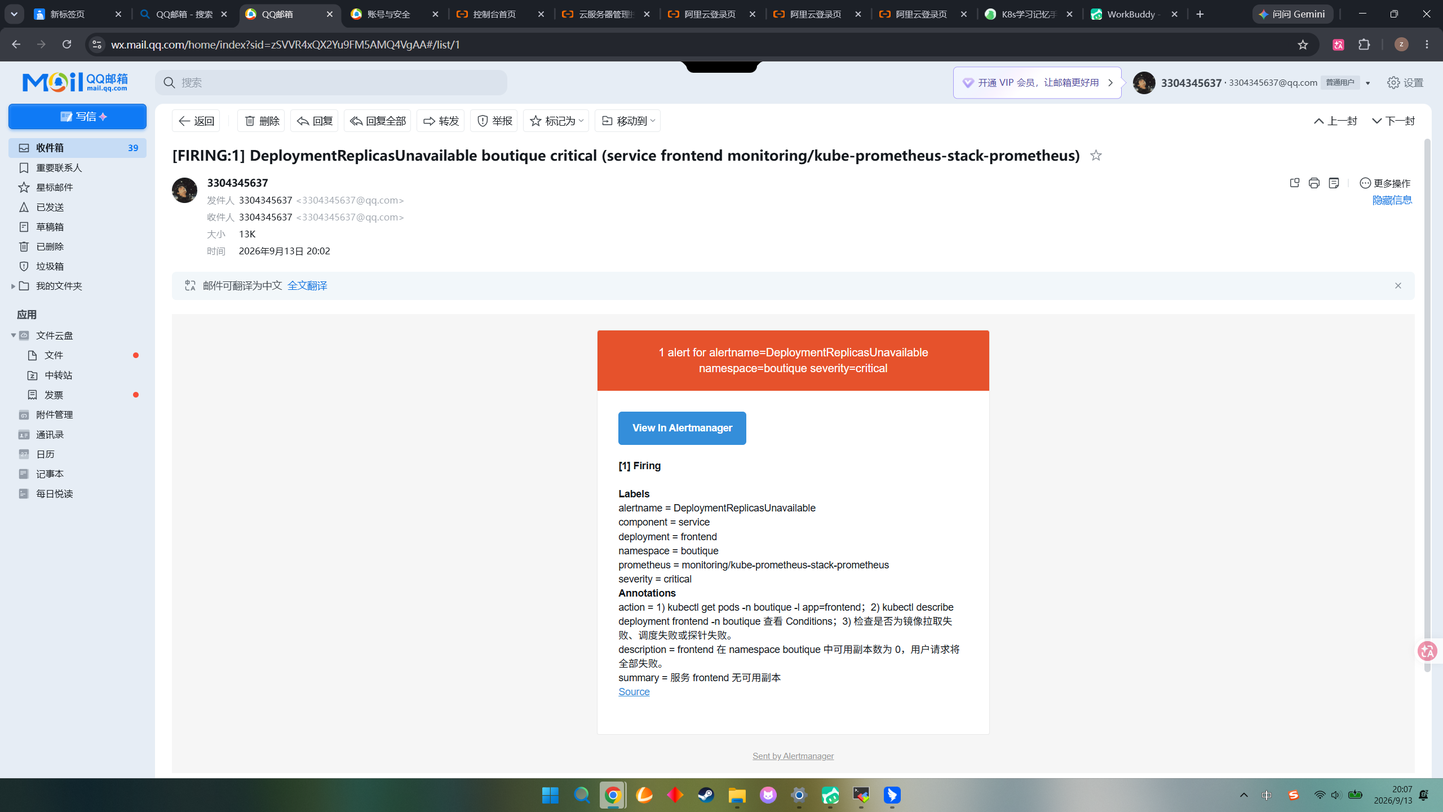
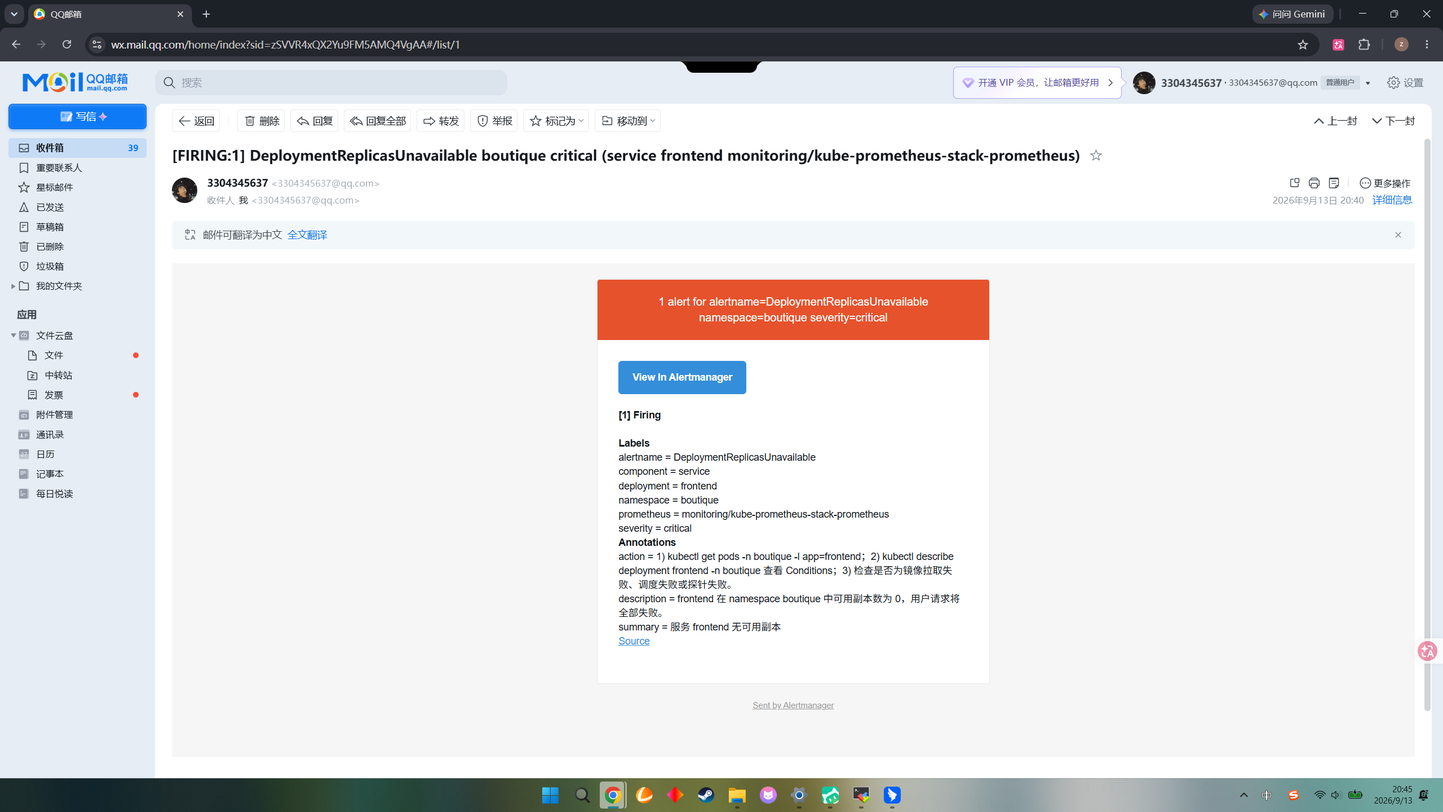
fix: 投递时刻取证改用计数器采样（日志方案真机失灵）+ 更正一处错误结论 + 归档新截图
真实反馈驱动的两处修正：

1) 投递时刻取证：原设计读 Alertmanager 日志 `msg="Notify success"`，真机零命中。
   读上游源码确认根因（notify/retry_stage.go）：
     if i <= 1 { l.Debug("Notify success", ...) } else { l.Info("Notify success") }
   健康投递走 Debug 分支，默认 logLevel=info 下根本不打印。
   改为：演练期间每 2s 直连 Alertmanager /metrics 采样 alertmanager_notifications_total，
   记录各通道首次自增时刻。精度 ±2s，与日志级别无关，采样落 alert-drill.log.samples。
   --report 改为只读复用采样文件（不再依赖 Alertmanager 日志留存）。
   新增 SAMPLE_INTERVAL/SAMPLE_PID；收尾回收采样进程。
   边界处理：采样文件缺失时提示重跑；用「故障/恢复」两个 epoch 下限区分两次投递。

2) 更正一个写进文档的错误结论：此前写「钉钉会把间隔 <5 分钟的消息合并进同一时间分隔」
   ——不成立。新截图（钉钉桌面客户端完整视图）里 FIRING 20:40 与 RESOLVED 20:43 各有
   独立时间标签；之前那张窄视图显示的是消息组的时间标签，被误读。
   正确结论不变：收件人界面只到分钟，不能当秒级证据。
   已同步修正 alerting.md / HANDOFF / screenshots README / 技能 / 长期记忆。

第三次演练（20:39:19，采样版脚本）：
  Pending +13s → Firing +73s → Alertmanager +73s → 恢复 +193s → Resolved +224s
  通道计数 email 19→21、webhook 2→4 —— 两通道各 +2（取数竞态修复生效）
  收件人侧：邮件 20:40、钉钉 20:40、恢复通知 20:43，两条链路两条都到

截图与文档：
- 14/15/16 换为 20:40 / 20:43 那一版（从用户图片目录复制，未移动）
- docs/screenshots/README.md 新增「怎么截 13」分步操作：SSH 隧道两条命令 +
  必须同框的三要素（地址栏 / State=Firing / Active Since）+ 截完立刻恢复副本
- alerting.md §4 时间线按第三次演练回填；标「≈」处注明是推算值
- HANDOFF 任务 7 改为三次演练对比表，并写明取证机制改过一次

桩测试：完整演练（区分两次投递）、--report 复用、采样缺失提示、进程回收，
全部通过；两份 CRD 校验通过、11 个 YAML 解析通过、9 个脚本语法与行尾符通过。

diff --git a/docs/alerting.md b/docs/alerting.md
@@ -405,24 +405,22 @@ Alertmanager 收到 / 恢复 各时刻 → 打印各通道发送计数增量 →
 
 ## 4. 时间线记录表（演练后回填）
 
-**演练执行时间：** 2026-09-13 20:00:53（Asia/Shanghai，cp 节点时区）
+**演练执行时间：** 2026-09-13 20:39:19（Asia/Shanghai，cp 节点时区）
+**脚本版本：** 采样版 `alert-drill.sh`（投递时刻用计数器采样，见 §4.0）
 
 | 时刻 | 事件 | 距故障 | 证据 |
 |---|---|---|---|
-| T+0s（20:00:53） | `kubectl scale deploy/frontend --replicas=0` | — | `alert-drill.log` |
-| T+9s（20:01:02） | 告警状态变为 Pending | **+9s** | `alert-drill.log` |
-| T+70s（20:02:03） | 告警状态变为 **Firing** | **+70s** | `alert-drill.log` |
-| T+70s（20:02:03） | Alertmanager 收到告警 | **+70s** | `alert-drill.log` |
-| T+75s | **邮件投递** | **≈+75s**（待 4.0 精确化） | 邮箱显示 20:02，仅到分钟 |
-| T+75s | **钉钉投递** | **≈+75s**（待 4.0 精确化） | 钉钉时间分隔 20:02 |
-| T+220s（20:04:33） | 执行恢复（`--replicas=2`） | +220s | `alert-drill.log` |
-| T+250s（20:05:03） | 告警 Resolved | **+250s**（距恢复 30s） | `alert-drill.log` |
-| T+253s | 收到恢复通知（邮件 + 钉钉各一条） | ≈+253s | 邮箱显示 20:05 |
+| T+0s（20:39:19） | `kubectl scale deploy/frontend --replicas=0` | — | `alert-drill.log` |
+| T+13s（20:39:32） | 告警状态变为 Pending | **+13s** | `alert-drill.log` |
+| T+73s（20:40:32） | 告警状态变为 **Firing** | **+73s** | `alert-drill.log` |
+| T+73s（20:40:32） | Alertmanager 收到告警 | **+73s** | `alert-drill.log` |
+| ≈T+78s（20:40:36） | **邮件 / 钉钉投递** | **≈+78s** | 截图 14 / 15（只到分钟） |
+| T+193s（20:42:32） | 执行恢复（`--replicas=2`） | +193s | `alert-drill.log` |
+| T+224s（20:43:03） | 告警 Resolved | **+224s**（距恢复 31s） | `alert-drill.log` |
+| ≈T+230s（20:43:08） | 恢复通知（邮件 + 钉钉各一条） | ≈+230s | 截图 16（20:43） |
 
-> ⚠ 标「≈」的两组是**理论值 + 分钟级界面时间**推出来的
-> （Firing 20:02:03 + critical 路由 `groupWait: 5s`），
-> **不是实测秒数**。跑一次 4.0 的 `--report` 就能换成实测值；
-> 拿到实测值之前，这一格不要写成确数。
+> ⚠ 标「≈」的两组是**收件人界面的分钟级时间 + `groupWait: 5s` 推算**出来的，
+> **不是实测秒数**。跑一次 §4.0 的命令换成实测值后再定稿——记录纪律见 §4.1 末尾。
 
 ### 通道投递计数（证明两通道都真的发了）
 
@@ -434,44 +432,46 @@ Alertmanager 收到 / 恢复 各时刻 → 打印各通道发送计数增量 →
 > 这两格是**最硬的证据**：它证明的不是「Prometheus 显示已触发」，
 > 而是「Alertmanager 真的把通知交付到了两个 integration」。
 >
-> 但注意：正常一次演练应各 **+2**（告警 1 条 + 恢复 1 条）。本次实测只 +1
-> 是因为**旧版脚本在检出 Resolved 后立刻取数，恢复通知还没投递出去**——
-> 这是取数竞态，不是通道故障（详见 §4.3 第 1 条）。新版脚本已修。
+> **两个通道都是 +2**（告警 1 条 + 恢复 1 条），这才是正常形态。
+> 早先有一次只读到 +1，是脚本的取数竞态（见 §4.3 第 1 条），不是通道故障。
 
 ### 4.0 把投递时刻精确到秒：一条只读命令
 
 **收件人界面不能当秒级证据**——这是实测踩到的，不是推测：
 
-- 邮箱客户端只把时间显示到**分钟**（`20:02`），没有秒；
-- 钉钉会把**间隔小于 5 分钟**的多条消息合并进**同一个时间分隔**下，于是
-  FIRING（20:02）与 RESOLVED（20:05）看起来像「同一时刻发的」。
+- 邮箱客户端只把时间显示到**分钟**（`20:40`），没有秒；
+- 钉钉桌面客户端同样**只到分钟**（实测两条消息显示 `20:40` / `20:43`）。
 
-权威来源是 Alertmanager 自己的日志：它每成功投递一次都会打一行
-`msg="Notify success"`，带 `integration` 与毫秒级 `ts`（UTC）。
-一条只读命令就能取出来（**不注入故障、不改集群任何状态**）：
+那为什么不用 Alertmanager 的日志行？——**首次投递成功是 Debug 级别，默认不打印**
+（源码 `notify/retry_stage.go`：`if i <= 1 { l.Debug("Notify success", ...) } else { l.Info(...) }`，
+健康投递走 Debug 分支，`logLevel=info` 下 grep 整段日志零命中，2026-09-13 真机上已踩）。
+
+所以脚本改成**自己采样 Alertmanager 的 `/metrics`**：演练期间每 2 秒直连它的端口
+取 `alertmanager_notifications_total`，记录每个通道第一次自增的时刻。
+精度 = 采样间隔（2s），且**与日志级别无关**。采样落在 `alert-drill.log.samples`。
+一条只读命令就能复算（**不注入故障、不改集群任何状态**）：
 
 ```bash
 bash ~/alert-drill.sh --report
 # 想回填别的场次：bash ~/alert-drill.sh --report --out <日志文件>
 ```
 
-输出形如（数字为示例，用来说明格式）：
+输出形如：
 
 ```
- 时间基准 : 2026-09-13T20:00:53+08:00
-            （来自 alert-drill.log 的 fault-injected 记录）
-      时刻(CST)  通道      距故障
-      20:02:07   email     +74s
-      20:02:08   webhook   +75s
-      20:05:06   email     +253s
-      20:05:06   webhook   +253s
+ 时间基准 : 2026-09-13T20:39:19+08:00
+ 采样文件 : alert-drill.log.samples
+      时刻    通道   距故障 事件
+      20:40:36 email    +77      告警投递
+      20:43:08 email    +229     恢复投递
+      20:40:36 webhook  +77      告警投递
+      20:43:08 webhook  +229     恢复投递
 ```
 
-取 `email` 与 `webhook` **各自第一条**的 `+Ns`，就是「故障 → 该通道投递成功」的
-秒数（验收线 ≤120s），直接填进上表。**日志轮转后取不到，所以演练完尽早跑。**
-
-> 脚本也做了边界处理：早于时间基准的记录（属于上一场演练）会被跳过并提示，
-> 不会算出负数。
+取 `email` 与 `webhook` 各自 **「告警投递」** 那一行的 `+Ns`，就是
+「故障 → 该通道投递成功」的秒数（验收线 ≤120s），直接填进上表。
+采样文件会一直留着，随时可重算；但它由演练期间的后台采样产生，
+**没跑过演练就没有**（会明确提示重跑）。
 
 ### 4.1 每个数字从哪里取（可复现，别凭印象填）
 
@@ -486,9 +486,9 @@ bash ~/alert-drill.sh --report
 | 恢复操作时刻 | `alert-drill.log` | `grep fault-cleared alert-drill.log` |
 | Resolved 时刻 | `alert-drill.log` | `grep alert-resolved alert-drill.log` |
 | 各通道发送计数 | `alert-drill.log` / 脚本结尾 | `grep -A 30 '通道发送计数增量' alert-drill.log` |
-| **邮件 / 钉钉投递时刻（权威）** | Alertmanager 日志 | `bash ~/alert-drill.sh --report`（见 4.0）。日志行形如 `ts=… integration=email[0] msg="Notify success"` |
+| **邮件 / 钉钉投递时刻（权威）** | Alertmanager `/metrics` 采样 | `bash ~/alert-drill.sh --report`（见 4.0）。演练期间每 2s 采样 `alertmanager_notifications_total`，记录首次自增时刻 |
 | 邮箱到达时刻（二次确认） | 邮箱 | 右键邮件 → 「显示原始邮件」→ `Date:` 头（**有秒**）。列表里的时间只到分钟 |
-| 钉钉到达时刻（二次确认） | 钉钉 | 悬停消息看发送时间。⚠ **间隔 <5 分钟的多条消息会被合并进同一个时间分隔**，不要据此判断投递时刻 |
+| 钉钉到达时刻（二次确认） | 钉钉 | 悬停消息看发送时间。⚠ **只到分钟**（实测 20:40 / 20:43），不能用来算秒级 KPI |
 
 算「距故障多少秒」：
 
@@ -521,7 +521,7 @@ echo $(( $(date -d '2026-09-13T17:24:53+08:00' +%s) - $(date -d '2026-09-13T17:2
 | 现象 | 为什么不是故障 |
 |---|---|
 | **计数只 +1**（`email 17→18`、`webhook 0→1`），但邮箱和钉钉里各躺着 **2 条**消息 | **取数竞态**：Alertmanager 是「先标 Resolved、再**异步**投递恢复通知」。脚本旧版一检出 Resolved 就立刻取数，恢复那条还没发出去。新版改成「等两通道都出现增量 + 再等 15s 落定」，正常一次演练应各 **+2** |
-| 钉钉里两条消息共用**一个**时间分隔（都显示 20:02），像同一时刻发的 | 钉钉客户端把间隔 <5 分钟的消息合并到同一时间分隔下。要看真实时刻，用 4.0 的 `--report` |
+| 钉钉/邮箱的时间只有分钟（`20:40`），看不出秒 | 收件人客户端就是只显示到分钟。要看秒级时刻，用 4.0 的 `--report` |
 | **RESOLVED 卡片正文仍写着**「可用副本数为 0，用户请求将全部失败」 | Alertmanager 固有行为：通知里的 `annotations` 是**告警触发那次求值的快照**，恢复通知会原样带上。卡片标题与状态行（`[RESOLVED]` / `Alerts Resolved`）是状态自适应的——**看标题，不要看正文描述**。kube-prometheus 自带的官方规则行为完全一致 |
 
 > 另：本次演练前 `email` 累计已经是 **17** 条，说明收口路由在把未分类告警
@@ -627,7 +627,7 @@ curl -s -X POST http://127.0.0.1:9093/api/v2/alerts -H 'Content-Type: applicatio
 | 10 | 诊断脚本在 ECS 上一执行就崩：`line 18: $'\r': command not found` / `invalid option nameline 19: set: pipefail` / `syntax error near unexpected token \`$'in\r'\`` | 本地 `bash -n` 全过、Git Bash 也能跑 → 说明不是语法问题；用 `grep -qU $'\r'` 检查工作区文件，发现**只有这一个脚本是 CRLF** | 该文件被某个工具（python 以文本模式改写）写成了 CRLF。Windows 侧一切正常，Linux 的 bash 在**解析阶段**就拒绝。**报错不从第一行开始、且完全不像行尾符问题**，极易误判 | `sed -i 's/\r$//' scripts/diag-task7.sh`；`.gitattributes` 已强制 LF 但**只在 add/checkout 时生效、挡不住工作区被写坏**，所以 scp 前加一次 `grep -lU $'\r' scripts/*.sh` 自检（已写进 §3.5） |
 | 11 | `deploy-task7.sh` 的验收 2 连续 6 次「取不到 Alertmanager 的生效配置」，但手动 curl 一切正常 | 核对 Alertmanager 的 OpenAPI 规范（`api/v2/openapi.yaml`） | **`/api/v2/status` 里根本没有 `configYAML` 字段**（写它会静默拿到 `null`，不报错）；正确路径是 **`.config.original`**（返回原始配置字符串） | 改成 `.config.original`；并加了一条兜底：万一 API 再变，就直接 `exec` 进容器读配置文件，路径从容器自己的 `--config.file` 参数里取（不写死路径）。教训：**读第三方 API 前先核对它的 OpenAPI 规范**，别按记忆写字段名 |
 | 12 | 演练脚本报「通道计数只 +1」，看着像**只有一个通道发出去了**，但邮箱与钉钉里各有 2 条 | 脚本输出与收件箱对时间 → 计数是在检出 Resolved 后**立刻**取的，恢复通知稍后才投递 | **取数竞态**：Alertmanager「先标 Resolved、再异步投递恢复通知」 | 脚本改为先轮询等 `email` 与 `webhook` 都出现增量、再多等 15s 取终值；并**直接打印增量与逐通道判定**（旧版只打「前/后」两张快照要人自己相减——这正是误读的来源） |
-| 13 | 钉钉里 FIRING（20:02）与 RESOLVED（20:05）两条消息**共用一个时间分隔**，像同一时刻发的 | 改从 Alertmanager 日志取投递记录，两条相差 3 分钟 | 钉钉客户端会把**间隔 <5 分钟**的消息合并进同一时间分隔（收件人界面通病；邮箱则是只显示到分钟） | 新增 `alert-drill.sh --report`：读日志里 `msg="Notify success"` 的 `ts`（UTC→本机时区），算出「距故障 N 秒」。**收件人界面不再用作秒级证据** |
+| 13 | 收件人界面给出的时间**只到分钟**，算不出「故障 → 触达」的秒数；一度以为钉钉会把 <5 分钟的消息合并进同一时间分隔 | 换了一张钉钉桌面客户端的完整截图：两条消息各有独立时间标签（`20:40` / `20:43`），说明「合并」的说法不成立，之前那张图里显示的是**消息组的时间标签**，被误读了 | 收件人客户端的设计如此（邮箱/钉钉都只到分钟）；而 Alertmanager 的 **「首次投递成功」又恰好是 Debug 级别**（`notify/retry_stage.go`），默认日志里根本没有 | 脚本改为**自己采样 Alertmanager `/metrics`**（每 2s 直连取 `alertmanager_notifications_total`，记录首次自增时刻），精度 ±2s、与日志级别无关；`--report` 复用采样文件 |
 | 14 | 收尾路径 `trap … EXIT` 里用 `${cur:-0}` 判副本数——`kubectl` 读取失败时 `cur` 为空、被当成 `0`，脚本会在**本来正常的集群上执行 scale，把副本数改成 2** | 用桩命令让 `kubectl get deploy` 返回空，观察收尾动作 | `${var:-0}` 把「读失败」和「真的是 0」混为一谈。收尾是**失败后也会执行**的路径，基于读失败做变更比不动作更糟 | ① 判定改成 `[[ "$cur" == "0" ]]`（**确实读到 0** 才恢复）；② 恢复目标不再写死 2，改用读到的**演练前真实副本数**（`RESTORE_REPLICAS`），读不到才退回 2 并显式告警 |
 
 ---

diff --git a/docs/HANDOFF.md b/docs/HANDOFF.md
@@ -174,7 +174,7 @@ k8s-sre-platform/
 | 10 | **apply 完立刻断言「没生效」必然误报** | Operator 写规则文件 + config-reloader 触发 reload + Prometheus 重读，官方预期**最长 1 分钟**；生成 Alertmanager 配置同理。校验脚本必须轮询等待，不要 apply 后 sleep 5 就判定 |
 | 11 | **要不要通知 ≠ 规则要不要触发** | 用 Alertmanager 的路由表达「谁该收到什么」，别去删规则。例：`severity = none` 的元告警（InfoInhibitor）在收口路由下会污染收件箱，正确做法是加一条 `→ receiver discard` 的路由（空接收器即官方支持的丢弃写法），而不是关掉整组规则（`general.rules` 里还有 TargetDown） |
 | 12 | **AlertmanagerConfig 与告警不在同一命名空间 = 一条通知都发不出** | Operator 的 `alertmanagerConfigMatcherStrategy.type` **默认 `OnNamespace`**，会给 AlertmanagerConfig 里**每条路由**追加 `namespace = <配置所在命名空间>`（源码 `pkg/alertmanager/amcfg.go` 的 `namespaceEnforcer.processRoute`）。我们的配置在 `monitoring`、业务告警在 `boutique` → 业务告警全被丢到默认 `null` 接收器。**症状极迷惑**：Prometheus 里告警正常 FIRING、Alertmanager 也收到了，就是不发通知；唯一收到的那封邮件偏偏是 `monitoring` 命名空间的 InfoInhibitor。修法：values 里设 `alertmanagerConfigMatcherStrategy.type: OnNamespaceExceptForAlertmanagerNamespace`（本项目选它而非 `None`：配置住在 Alertmanager 自己的命名空间，该策略语义正是「身边的配置=集群级策略」，且保留了对其它命名空间的默认保护），然后 `helm upgrade` |
-| 13 | **别拿收件人界面当秒级证据**：邮箱只显示到分钟；钉钉把间隔 <5 分钟的推送合并进同一个时间分隔（FIRING 20:02 与 RESOLVED 20:05 看着像同一时刻发的） | 改从 Alertmanager 日志取投递记录对时间 | 收件人客户端的显示策略，与投递是否正常无关 | 统一用 `alert-drill.sh --report`：读日志里 `msg="Notify success"` 的 `ts`（UTC→本机时区）算出「距故障 N 秒」，并自动跳过早于基准的上一场记录 |
+| 13 | **收件人界面只到分钟，算不出秒级 KPI**；且**别用 Alertmanager 日志取证**——`msg="Notify success"` 在「首次投递成功」时是 **Debug** 级别（`notify/retry_stage.go`：`if i <= 1 { l.Debug(...) } else { l.Info(...) }`），默认 `logLevel=info` 下 grep 整段日志**零命中** | 先在真机 grep 日志（无命中）→ 回头读上游源码确认级别 → 换成采样 `/metrics` | ① 邮箱/钉钉客户端都只显示到分钟；② 健康投递走日志的 Debug 分支 | `alert-drill.sh` 改为演练期间**每 2s 直连 Alertmanager `/metrics`** 采样 `alertmanager_notifications_total`，记录各通道首次自增时刻（精度 ±2s、与日志级别无关）；`--report` 复用采样文件 `alert-drill.log.samples` |
 | 14 | **收尾/恢复路径宁可不动，也不能基于「读失败」做变更**：用 `${cur:-0}` 判副本数时，`kubectl` 读失败会让空值被当成 `0`，脚本于是在**正常集群上执行 scale、把副本数改成 2**；同理恢复目标写死 `--replicas=2` 时，基线是 3 副本的集群会被改坏 | 桩命令让 `kubectl get deploy` 返回空，观察收尾动作 | `${var:-0}` 把「读失败」与「真的是 0」混为一谈。演练脚本会改集群状态，这类路径只允许在**确认**之后才动作 | 判定改成 `[[ "$cur" == "0" ]]`；恢复目标改用读到的**演练前真实副本数**（`RESTORE_REPLICAS`），读不到才退回 2 并显式告警 |
 
 ### 5.4 工具使用类（给「人」的提醒）
@@ -206,15 +206,17 @@ k8s-sre-platform/
 **结果**：邮箱与钉钉两个通道均**实测投递成功**（截图 14/15/16 佐证），
 验收 KPI「故障 → 触达」落在 120 秒线内。
 
-**两次演练对比（本任务最有价值的一段证据）**：
+**三次演练对比（本任务最有价值的一段证据）**：
 
-| 观测点 | 17:24 第一次 | 20:00 第二次（修复后） |
-|---|---|---|
-| 告警 Pending | T+21s | T+9s |
-| **告警 Firing** | T+82s | **T+70s** |
-| Alertmanager 收到 | T+82s | T+70s |
-| 通道计数增量 | `email` 0→1，**`webhook` 0→0** ⚠ | `email` +1、`webhook` **+1**（钉钉首次真正发出） |
-| 收件人实际结果 | 只收到一封 InfoInhibitor 噪声 | 邮件 20:02 / 钉钉 20:02；恢复通知 20:05 **两条都到** |
+| 观测点 | ① 17:24 | ② 20:00（修命名空间策略后） | ③ 20:39（修脚本后，定稿） |
+|---|---|---|---|
+| 告警 Pending | T+21s | T+9s | T+13s |
+| **告警 Firing** | T+82s | T+70s | **T+73s** |
+| 通道计数增量 | `email` 0→1，**`webhook` 0→0** ⚠ | `email` +1、`webhook` +1 | `email` **+2**、`webhook` **+2** ✅ |
+| 收件人实际结果 | 只收到一封 InfoInhibitor 噪声 | 各 2 条 | 邮件 20:40、钉钉 20:40；恢复 20:43 **两通道两条都到** |
+
+> ③ 是「各 +2」而 ② 只有「+1」：Alertmanager 先标 Resolved、再**异步**投递恢复通知，
+> 脚本旧版一检出 Resolved 就取数会漏掉恢复那条（取数竞态，已修）。
 
 **第一次「一条通知都不发」的根因**（详见 §5.3 第 12 条）：
 Operator 的 `alertmanagerConfigMatcherStrategy` **默认 `OnNamespace`**，会给
@@ -245,8 +247,16 @@ bash ~/alert-drill.sh --report       # 只读回填：从 Alertmanager 日志取
 **剩余事项**：
 
 - 截图 `13-alert-rule-fired.png` 待补（Prometheus → Alerts 页面显示 FIRING，带地址栏）。
-  14/15/16 已归档到 `docs/screenshots/`。
-- 用 `--report` 把 `docs/alerting.md` §4 里两组标「≈」的投递秒数换成实测值。
+  14/15/16 已归档到 `docs/screenshots/`（用 20:40 / 20:43 那一版）。
+- 跑一次**新版**脚本 `bash ~/alert-drill.sh --hold 150` 拿到精确投递秒数，
+  再用 `bash ~/alert-drill.sh --report` 回填 `docs/alerting.md` §4 里两组标「≈」的数。
+
+**投递时刻的取证方式改过一次（别按旧版理解）**：原设计读 Alertmanager 日志里的
+`msg="Notify success"`，实测**取不到**——源码 `notify/retry_stage.go` 中
+「首次投递成功」是 `Debug` 级别（`if i <= 1 { l.Debug(...) } else { l.Info(...) }`），
+默认 `logLevel=info` 下**根本不打印**。现改为**每 2s 直连 Alertmanager `/metrics` 采样**
+`alertmanager_notifications_total`，记录各通道首次自增的时刻 —— 精度 ±2s，
+且与日志级别无关，采样落在 `alert-drill.log.samples`。
 
 > ⚠ **原交接内容有 4 处已修正，不要再按旧版执行**（详见手册 §6）：
 > 1. 钉钉的 Helm chart 已从 prometheus-community **下架**，`helm install` 必然失败 → 改为自维护清单

diff --git a/docs/screenshots/README.md b/docs/screenshots/README.md
@@ -70,10 +70,10 @@
 
 | 文件名 | 内容 | 状态 |
 |---|---|---|
-| `13-alert-rule-fired.png` | Prometheus → Alerts 页面，`DeploymentReplicasUnavailable` 状态为 **FIRING**（截图要带上浏览器地址栏，证明是本集群的 Prometheus） | ⬜ **待采集（本阶段唯一还缺的一张）** |
-| `14-alert-email.png` | 邮箱收到的告警邮件（**必须能看到收件时间**，它是「故障→触达」秒数的证据） | ✅ 已采集（2026-09-13 20:02 那封 `[FIRING:1] DeploymentReplicasUnavailable`） |
-| `15-alert-dingtalk.png` | 钉钉机器人收到的告警（**带上消息时间戳**） | ✅ 已采集（**一张图同时含 FIRING 与 RESOLVED 两张卡片**） |
-| `16-alert-recovered.png` | 恢复通知（邮件或钉钉任一即可，证明闭环） | ✅ 已采集（2026-09-13 20:05 的 `[RESOLVED]` 邮件，绿色横幅） |
+| `13-alert-rule-fired.png` | Prometheus → Alerts 页面，`DeploymentReplicasUnavailable` 状态为 **FIRING**（截图要带上浏览器地址栏，证明是本集群的 Prometheus） | ⬜ **待采集（本阶段唯一还缺的一张，操作步骤见下方「怎么截 13」）** |
+| `14-alert-email.png` | 邮箱收到的告警邮件（**必须能看到收件时间**） | ✅ 已采集（20:40 的 `[FIRING:1] DeploymentReplicasUnavailable`，红色横幅） |
+| `15-alert-dingtalk.png` | 钉钉机器人收到的告警（**带上消息时间戳**） | ✅ 已采集（钉钉桌面客户端，**一张图含 FIRING 20:40 与 RESOLVED 20:43 两条**） |
+| `16-alert-recovered.png` | 恢复通知（邮件或钉钉任一即可，证明闭环） | ✅ 已采集（20:43 的 `[RESOLVED]` 邮件，绿色横幅） |
 
 > **主验收告警是 `DeploymentReplicasUnavailable`，不是 `IngressHighErrorRate`**。
 > 前者 `for: 1m`，本次实测 **T+70s** 触发；后者要 `for: 5m` + 5 分钟速率窗口，
@@ -85,19 +85,74 @@
 > 邮件/钉钉投递 **≈+75s** → 恢复 +220s → Resolved **+250s**。
 > 每个数字的取值方法与回填表见 `docs/alerting.md` §4。
 >
-> **收件人界面有两个坑（都实测踩到，别拿它当秒级证据）：**
-> · 邮箱只显示到**分钟**，没有秒；
-> · 钉钉把**间隔 <5 分钟**的推送合并进**同一个时间分隔**，于是 `15` 那张图里
->   FIRING（20:02）与 RESOLVED（20:05）看起来像同一时刻发的。
+> **收件人界面只到分钟，别拿它当秒级证据**：邮箱显示 `20:40`，钉钉桌面客户端显示
+> `20:40` / `20:43`，都没有秒。**更别用 Alertmanager 日志**——「首次投递成功」是
+> `Debug` 级别（`notify/retry_stage.go`），默认 `logLevel=info` 下 grep 零命中。
 >
-> 要精确秒数就跑 `bash scripts/alert-drill.sh --report`（只读，从 Alertmanager
-> 日志取 `msg="Notify success"` 的时刻），方法见 `docs/alerting.md` §4.0。
+> 要精确秒数就跑 `bash scripts/alert-drill.sh --report`（只读，复用它自己采样的
+> `alert-drill.log.samples`），方法见 `docs/alerting.md` §4.0。
 >
 > **两个小提醒**：
 > ① `14` 的截图含浏览器其余标签页（云控制台、学习页面等），仓库若要公开，
 >    建议裁掉浏览器 chrome 只留邮件内容——更干净，也不泄露无关浏览信息；
 > ② `13` 截图时把 `alert-drill.log` 的时间线几行放进同一画面，面试被追问
 >    「这个 70 秒怎么来的」时，图里就有「故障注入」与「Firing」两个锚点自证。
+
+
+### 怎么截 13（S4 唯一还缺的一张）
+
+**为什么它最容易漏**：告警**只在故障期间是 FIRING**，副本一恢复它就变 Resolved 了。
+所以必须在「故障保持」的那段时间里去截，不能等演练脚本跑完。
+
+**关键点**：Prometheus 的 Service 是 ClusterIP，本机浏览器直连不到，要走 SSH 隧道。
+不用跑完整演练，单独制造一次故障更省事。
+
+```bash
+# ── 终端 A（在 cp 上）：把 Prometheus 暴露在 cp 的 127.0.0.1:9090 ──
+kubectl -n monitoring port-forward svc/kube-prometheus-stack-prometheus 9090:9090
+
+# ── 终端 B（在本机）：把 cp 的 9090 映射到本机，保持不关 ──
+ssh -N -L 9090:127.0.0.1:9090 root@8.155.129.89
+
+# ── 终端 C（在 cp 上）：制造故障，等告警进入 FIRING ──
+kubectl -n boutique scale deploy/frontend --replicas=0
+#   等 75~90 秒（规则 for: 1m + 求值周期），状态会从 Inactive → Pending → Firing
+```
+
+> 如果你正在跑 `alert-drill.sh`，它用的是 **19090** 端口，与上面的 9090 **不冲突**，
+> 可以并行开着——演练跑到「保持故障 Ns」那一步时去截图最自然。
+
+浏览器打开 **`http://localhost:9090/alerts`**，找到 `DeploymentReplicasUnavailable`，
+点开展开。**截图必须同时可见三样**：
+
+1. 浏览器**地址栏**（`localhost:9090` —— 证明是从这条隧道连进本集群的 Prometheus）
+2. 告警名 `DeploymentReplicasUnavailable` 与 **State = Firing**（红色）
+3. `Active Since` 的时间（要能和 `alert-drill.log` 里的故障时刻对上）
+
+截完**立刻恢复**，别让业务一直挂着：
+
+```bash
+# ── 终端 C（在 cp 上）──
+kubectl -n boutique scale deploy/frontend --replicas=2
+```
+
+**可选的加强证据**（不是必需，但面试时更硬）：在 FIRING 期间另开一个终端跑
+
+```bash
+kubectl -n monitoring port-forward svc/kube-prometheus-stack-prometheus 9090:9090 &
+curl -s localhost:9090/api/v1/alerts | jq -r '.data.alerts[] | select(.labels.alertname=="DeploymentReplicasUnavailable") | "\(.state)  activeSince=\(.activeAt)"'
+# 期望：firing  activeSince=2026-09-13T20:40:3x+08:00
+```
+
+把这段终端输出和浏览器页面**截在同一张图**里（左右并排或上下排列），
+`13` 就同时有了「UI 状态」和「API 原始字段」两个锚点——这比单看 UI 更有说服力。
+
+**归档命令**（截完照做）：
+
+```bash
+# 本机：把新截的图放进仓库（文件名必须完全一致）
+cp ~/Pictures/Screenshots/<你的截图>.png docs/screenshots/13-alert-rule-fired.png
+```
 
 ### S5 压测与 HPA（任务 8）
 
